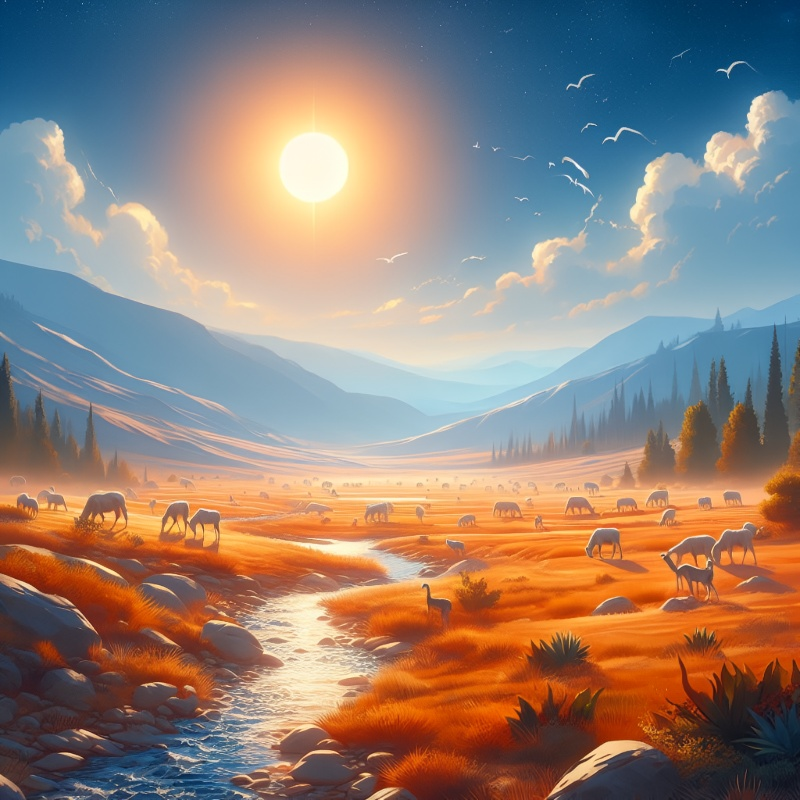
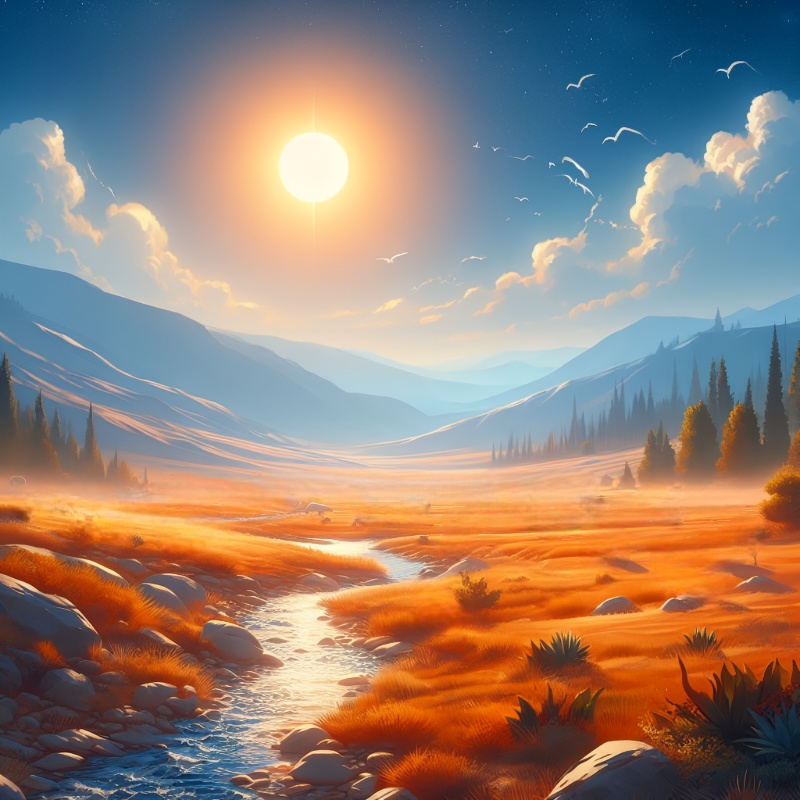
added snow state

Changed region(s): [[0.0, 0.5938, 0.8438, 0.7188], [0.8125, 0.5938, 0.9688, 0.7812], [0.5, 0.7188, 0.5938, 0.7812]]

diff --git a/components/containers/CBackground.tsx b/components/containers/CBackground.tsx
@@ -15,6 +15,7 @@ export function CBackground({ children }: PropsWithChildren) {
     "thunder": require("@/assets/images/backgrounds/storm.png"),
     "rain": require("@/assets/images/backgrounds/rain.png"),
     "night": require("@/assets/images/backgrounds/night.png"),
+    "snow": require("@/assets/images/backgrounds/snow.png"),
     "cold": require("@/assets/images/backgrounds/cold.png"),
     "hot": require("@/assets/images/backgrounds/hot.png"),
     "clear": require("@/assets/images/backgrounds/clear.png"),
@@ -38,6 +39,7 @@ export function CBackground({ children }: PropsWithChildren) {
     if (firstTime) setFirstTime(false);
     else if (description.includes("thunder")) state = "thunder";
     else if (description.includes("rain") || description.includes("drizzle")) state = "rain";
+    else if (description.includes("snow")) state = "snow";
     else if (hour > 19 || hour < 6) state = "night";
     else if (temp < 10) state = "cold";
     else if (temp > 35) state = "hot";

diff --git a/components/testing/TestingPanel.tsx b/components/testing/TestingPanel.tsx
@@ -14,15 +14,16 @@ export function TestingPanel() {
     const states = [
       {symbol: "⚡", desc: "thunder"},
       {symbol: "💧", desc: "rain"},
+      {symbol: "❄", desc: "snow"},
       {symbol: "☀", desc: "clear"},
       {symbol: "☁", desc: "cloudy"},
       {symbol: "⛅", desc: "few clouds"},
     ]
     
-    const conditional = index < 4 ? index + 1 : 0;
+    const nextIndex = index < 4 ? index + 1 : 0;
     setDescription(states[index]["desc"]);
-    setSymbol(states[conditional]["symbol"]);
-    setIndex(conditional);
+    setSymbol(states[nextIndex]["symbol"]);
+    setIndex(nextIndex);
   };
 
   return (
